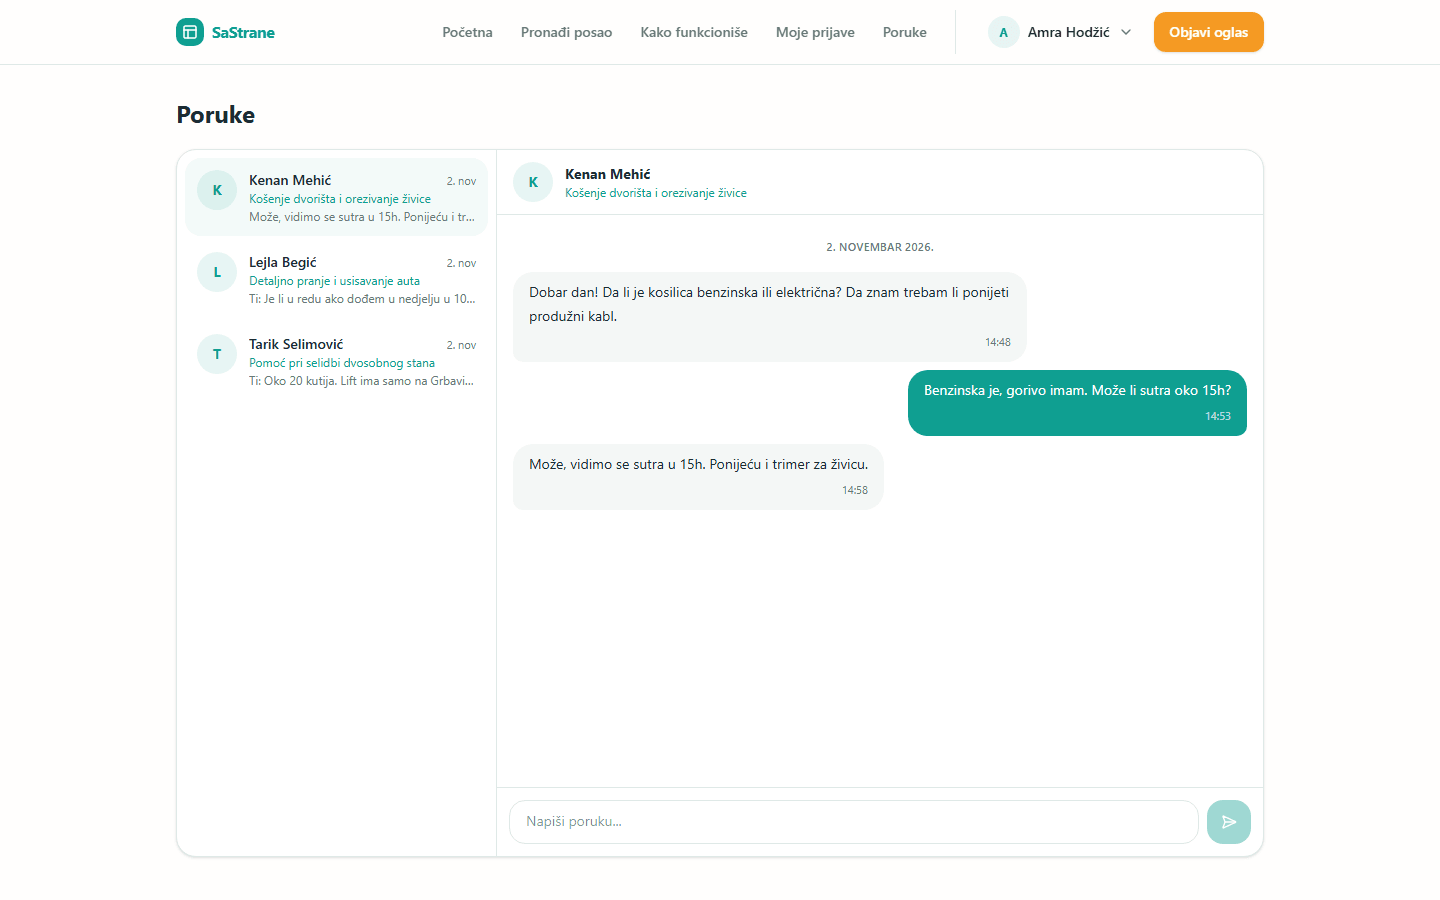
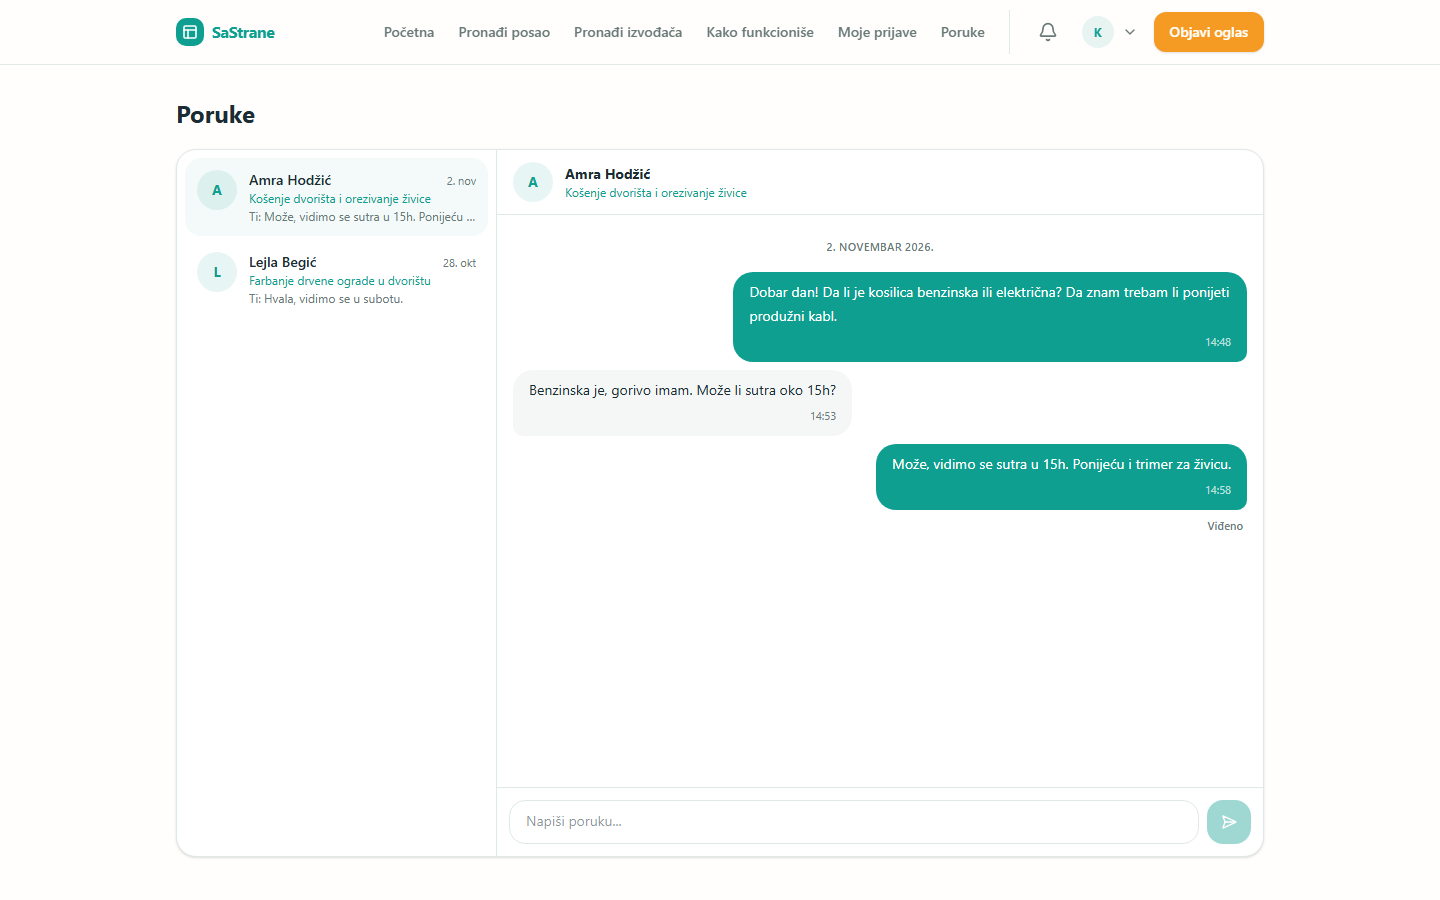
docs: move the screenshots to their own page and add new ones
The gallery now lives in docs/screenshots/README.md, and the main README keeps the home page image and a link. New screenshots show the budget filter with sorting, job alerts and the gallery of work. The messages and public profile screenshots are retaken with the seen mark and the gallery.

diff --git a/README.md b/README.md
@@ -16,14 +16,13 @@ mowing, moving help or IT support, and people nearby apply to do them.
 
 ![SaStrane home page](docs/screenshots/home.png)
 
-The interface is in Bosnian. The screenshots use the demo data from the
-seed. Its photos are public domain (CC0), listed in
-[`backend/prisma/seed-photos/SOURCES.md`](backend/prisma/seed-photos/SOURCES.md).
+The interface is in Bosnian. Every screen, from the job list to the admin
+pages, is in [`docs/screenshots`](docs/screenshots/README.md).
 
 ## Contents
 
 - [Features](#features)
-- [Screenshots](#screenshots)
+- [Screenshots](docs/screenshots/README.md)
 - [Architecture](#architecture)
 - [Tech stack](#tech-stack)
 - [Project structure](#project-structure)
@@ -136,107 +135,6 @@ be both.
   or dismissed, close, reopen or delete jobs, and suspend accounts. A suspended account is
   signed out, its open jobs close, and it cannot sign in until an admin
   lifts the suspension.
-
-## Screenshots
-
-<table>
-  <tr>
-    <td width="50%">
-      <img src="docs/screenshots/listings.png" alt="Job list with search, filters and cover photos">
-      <p align="center"><sub><b>Find a job</b>: search, filters and cover photos</sub></p>
-    </td>
-    <td width="50%">
-      <img src="docs/screenshots/listing-detail.png" alt="Job detail page with a photo gallery">
-      <p align="center"><sub><b>Job detail</b>: photo gallery, budget and client</sub></p>
-    </td>
-  </tr>
-  <tr>
-    <td width="50%">
-      <img src="docs/screenshots/create-listing.png" alt="Form for a new job with a photo">
-      <p align="center"><sub><b>Post a job</b>: up to five photos, the first is the cover</sub></p>
-    </td>
-    <td width="50%">
-      <img src="docs/screenshots/inbox.png" alt="Workspace with received applications">
-      <p align="center"><sub><b>Workspace</b>: received applications and their status</sub></p>
-    </td>
-  </tr>
-  <tr>
-    <td width="50%">
-      <img src="docs/screenshots/messages.png" alt="Conversation between a client and an executor">
-      <p align="center"><sub><b>Messages</b>: one conversation per job and executor</sub></p>
-    </td>
-    <td width="50%">
-      <img src="docs/screenshots/user-profile.png" alt="Public profile with a bio, skills, location and ratings">
-      <p align="center"><sub><b>Public profile</b>: bio, skills and ratings from clients</sub></p>
-    </td>
-  </tr>
-  <tr>
-    <td width="50%">
-      <img src="docs/screenshots/executors.png" alt="List of executors with ratings, skills and locations">
-      <p align="center"><sub><b>Find an executor</b>: by job, location or name, the best rated first</sub></p>
-    </td>
-    <td width="50%">
-      <img src="docs/screenshots/invite.png" alt="Dialog to invite an executor to one of the client's open jobs">
-      <p align="center"><sub><b>Invite</b>: pick one of your open jobs for an executor</sub></p>
-    </td>
-  </tr>
-  <tr>
-    <td width="50%">
-      <img src="docs/screenshots/invitations.png" alt="Workspace tab with an invitation to a job">
-      <p align="center"><sub><b>Invitations</b>: apply to the job or decline</sub></p>
-    </td>
-    <td width="50%">
-      <img src="docs/screenshots/notifications.png" alt="Notifications opened under the bell in the navbar">
-      <p align="center"><sub><b>Notifications</b>: invitations, applications, decisions and ratings</sub></p>
-    </td>
-  </tr>
-  <tr>
-    <td width="50%">
-      <img src="docs/screenshots/saved.png" alt="Workspace tab with saved jobs">
-      <p align="center"><sub><b>Saved jobs</b>: one click on a job card</sub></p>
-    </td>
-    <td width="50%">
-      <img src="docs/screenshots/settings.png" alt="Account settings with a profile photo">
-      <p align="center"><sub><b>Settings</b>: photo, profile, notices, password</sub></p>
-    </td>
-  </tr>
-  <tr>
-    <td width="50%">
-      <img src="docs/screenshots/sign-up.png" alt="Sign-up dialog with role choice">
-      <p align="center"><sub><b>Sign up</b>: choose to post jobs, do jobs or both</sub></p>
-    </td>
-    <td width="50%">
-      <img src="docs/screenshots/profile.png" alt="Profile page with activity counts">
-      <p align="center"><sub><b>Profile</b>: activity at a glance</sub></p>
-    </td>
-  </tr>
-  <tr>
-    <td width="50%">
-      <img src="docs/screenshots/report-dialog.png" alt="Dialog for reporting a job">
-      <p align="center"><sub><b>Report</b>: a job or a user, seen only by admins</sub></p>
-    </td>
-    <td width="50%">
-      <img src="docs/screenshots/admin-reports.png" alt="Admin page with an open report">
-      <p align="center"><sub><b>Reports</b>: resolve, dismiss, delete the job or suspend</sub></p>
-    </td>
-  </tr>
-  <tr>
-    <td width="50%">
-      <img src="docs/screenshots/admin.png" alt="Admin overview with platform totals">
-      <p align="center"><sub><b>Admin overview</b>: platform totals</sub></p>
-    </td>
-    <td width="50%">
-      <img src="docs/screenshots/admin-users.png" alt="Admin list of every user">
-      <p align="center"><sub><b>Users</b>: search, filters and suspension</sub></p>
-    </td>
-  </tr>
-</table>
-
-<p align="center">
-  <img src="docs/screenshots/mobile-listings.png" alt="Job list on a phone" width="280">
-  <br>
-  <sub><b>On a phone</b></sub>
-</p>
 
 ## Architecture
 
@@ -478,7 +376,7 @@ SaStrane/
 │   ├── lib/                 API and query clients, generated API types, formatting
 │   └── e2e/                 Playwright tests
 ├── docker/                  Local storage settings
-├── docs/screenshots/
+├── docs/                    Deploy guide and screenshots
 └── docker-compose.yml       Local PostgreSQL and photo storage
 ```
 

diff --git a/docs/screenshots/README.md b/docs/screenshots/README.md
@@ -1,0 +1,124 @@
+# Screenshots
+
+The interface is in Bosnian. The screenshots use the demo data from the
+seed (`npx prisma db seed` in `backend/`). Its photos are public domain
+(CC0), listed in
+[`backend/prisma/seed-photos/SOURCES.md`](../../backend/prisma/seed-photos/SOURCES.md).
+
+![SaStrane home page](home.png)
+
+<table>
+  <tr>
+    <td width="50%">
+      <img src="listings.png" alt="Job list with search, filters and cover photos">
+      <p align="center"><sub><b>Find a job</b>: search, filters and cover photos</sub></p>
+    </td>
+    <td width="50%">
+      <img src="listings-filters.png" alt="Job list filtered by location and budget, sorted by the highest budget">
+      <p align="center"><sub><b>Budget and sort</b>: a budget range, the order, and an alert for the search</sub></p>
+    </td>
+  </tr>
+  <tr>
+    <td width="50%">
+      <img src="listing-detail.png" alt="Job detail page with a photo gallery">
+      <p align="center"><sub><b>Job detail</b>: photo gallery, budget and client</sub></p>
+    </td>
+    <td width="50%">
+      <img src="create-listing.png" alt="Form for a new job with a photo">
+      <p align="center"><sub><b>Post a job</b>: up to five photos, the first is the cover</sub></p>
+    </td>
+  </tr>
+  <tr>
+    <td width="50%">
+      <img src="inbox.png" alt="Workspace with received applications">
+      <p align="center"><sub><b>Workspace</b>: received applications and their status</sub></p>
+    </td>
+    <td width="50%">
+      <img src="messages.png" alt="Conversation between a client and an executor, the newest message marked as seen">
+      <p align="center"><sub><b>Messages</b>: one conversation per job and executor, live, with a seen mark</sub></p>
+    </td>
+  </tr>
+  <tr>
+    <td width="50%">
+      <img src="user-profile.png" alt="Public profile with a bio, skills, location and the gallery of work">
+      <p align="center"><sub><b>Public profile</b>: bio, skills, the gallery of work and ratings</sub></p>
+    </td>
+    <td width="50%">
+      <img src="gallery.png" alt="Photo of finished work opened large, with its caption">
+      <p align="center"><sub><b>Gallery of work</b>: up to eight photos with captions</sub></p>
+    </td>
+  </tr>
+  <tr>
+    <td width="50%">
+      <img src="executors.png" alt="List of executors with ratings, skills and locations">
+      <p align="center"><sub><b>Find an executor</b>: by job, location or name, the best rated first</sub></p>
+    </td>
+    <td width="50%">
+      <img src="invite.png" alt="Dialog to invite an executor to one of the client's open jobs">
+      <p align="center"><sub><b>Invite</b>: pick one of your open jobs for an executor</sub></p>
+    </td>
+  </tr>
+  <tr>
+    <td width="50%">
+      <img src="invitations.png" alt="Workspace tab with an invitation to a job">
+      <p align="center"><sub><b>Invitations</b>: apply to the job or decline</sub></p>
+    </td>
+    <td width="50%">
+      <img src="notifications.png" alt="Notifications opened under the bell in the navbar">
+      <p align="center"><sub><b>Notifications</b>: invitations, applications, decisions and ratings</sub></p>
+    </td>
+  </tr>
+  <tr>
+    <td width="50%">
+      <img src="job-alerts.png" alt="Account settings with two alerts for new jobs">
+      <p align="center"><sub><b>Job alerts</b>: a notification for each new job that matches</sub></p>
+    </td>
+    <td width="50%">
+      <img src="saved.png" alt="Workspace tab with saved jobs">
+      <p align="center"><sub><b>Saved jobs</b>: one click on a job card</sub></p>
+    </td>
+  </tr>
+  <tr>
+    <td width="50%">
+      <img src="settings.png" alt="Account settings with a profile photo">
+      <p align="center"><sub><b>Settings</b>: photo, profile, notices, password</sub></p>
+    </td>
+    <td width="50%">
+      <img src="sign-up.png" alt="Sign-up dialog with role choice">
+      <p align="center"><sub><b>Sign up</b>: choose to post jobs, do jobs or both</sub></p>
+    </td>
+  </tr>
+  <tr>
+    <td width="50%">
+      <img src="profile.png" alt="Profile page with activity counts">
+      <p align="center"><sub><b>Profile</b>: activity at a glance</sub></p>
+    </td>
+    <td width="50%">
+      <img src="report-dialog.png" alt="Dialog for reporting a job">
+      <p align="center"><sub><b>Report</b>: a job or a user, seen only by admins</sub></p>
+    </td>
+  </tr>
+  <tr>
+    <td width="50%">
+      <img src="admin-reports.png" alt="Admin page with an open report">
+      <p align="center"><sub><b>Reports</b>: resolve, dismiss, delete the job or suspend</sub></p>
+    </td>
+    <td width="50%">
+      <img src="admin.png" alt="Admin overview with platform totals">
+      <p align="center"><sub><b>Admin overview</b>: platform totals</sub></p>
+    </td>
+  </tr>
+  <tr>
+    <td width="50%">
+      <img src="admin-users.png" alt="Admin list of every user">
+      <p align="center"><sub><b>Users</b>: search, filters and suspension</sub></p>
+    </td>
+    <td width="50%"></td>
+  </tr>
+</table>
+
+<p align="center">
+  <img src="mobile-listings.png" alt="Job list on a phone" width="280">
+  <br>
+  <sub><b>On a phone</b></sub>
+</p>
